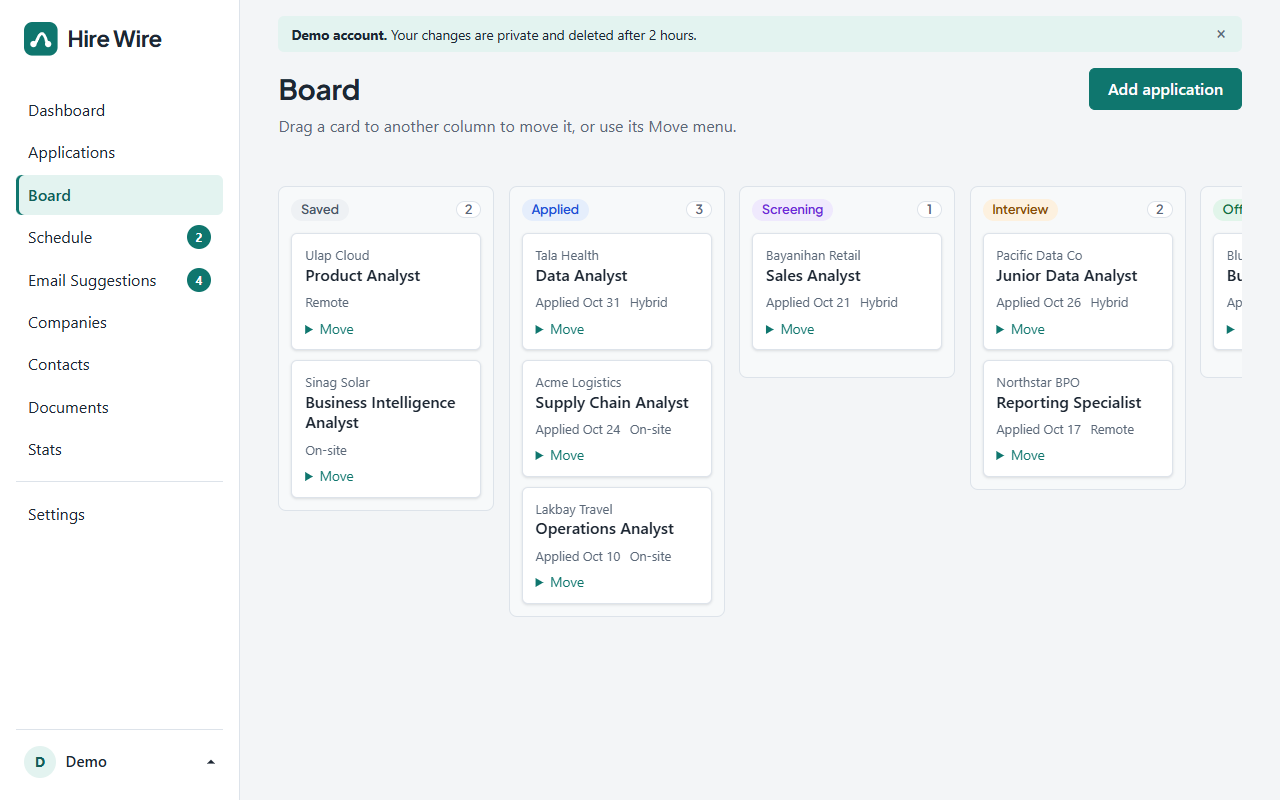
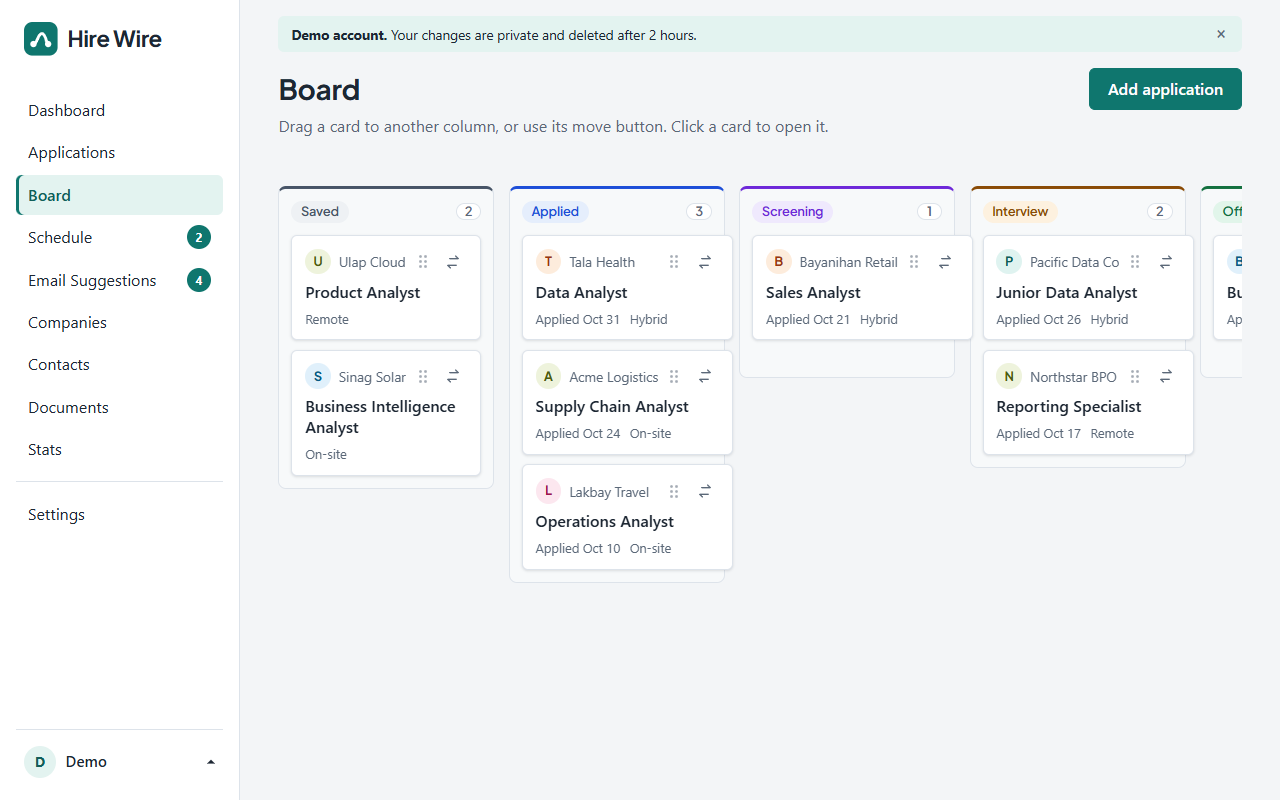
Board polish: stage colour lines, company letters, compact move button
From a design review the user pasted:
- Each column's top edge wears its stage colour (the pill's ink).
- Each card starts with a coloured letter for its company (6 colours,
  the same one every time, 6.3:1 or more in both themes).
- The "Move" text on every card is replaced by a six-dot drag handle
  and a small move button. Its menu stays, because it is how keyboard,
  phone and no-JavaScript users move a card.
- A click anywhere on a card opens the application (no modal: the
  application page already has the stage buttons).
- Every scrolling area (and the page) gets the same thin scrollbar in
  the theme's greys. The columns don't scroll on their own; only the
  board does, sideways.
- All README pictures retaken.

diff --git a/hirewire/static/style.css b/hirewire/static/style.css
@@ -385,6 +385,9 @@ img { max-width: 100%; height: auto; display: block; }
 
 .table-card { padding: 0; overflow: hidden; }
 .table-scroll { overflow-x: auto; }
+/* Thin scrollbars in the theme's own greys, in every area that scrolls (and the page). */
+html { scrollbar-color: var(--rule-strong) var(--bg); }
+.table-scroll, .board, .sidebar, .description-text { scrollbar-width: thin; scrollbar-color: var(--rule-strong) transparent; }
 .table { width: 100%; border-collapse: collapse; font-size: .95rem; }
 .table th { text-align: left; font-size: .8rem; font-weight: 600; color: var(--ink-soft); padding: .7rem 1rem; background: var(--surface-soft); border-bottom: 1px solid var(--rule); white-space: nowrap; }
 .table td { padding: .75rem 1rem; border-bottom: 1px solid var(--rule); vertical-align: middle; }
@@ -469,24 +472,46 @@ img { max-width: 100%; height: auto; display: block; }
 /* ---------- The Board ---------- */
 
 .board-status { min-height: 1.5rem; margin: -.75rem 0 .75rem; color: var(--ink-soft); font-size: .92rem; }
-.board { display: grid; grid-auto-flow: column; grid-auto-columns: minmax(13.5rem, 1fr); gap: .9rem; overflow-x: auto; padding-bottom: 1rem; scrollbar-width: thin; scrollbar-color: var(--rule-strong) transparent; scroll-snap-type: x mandatory; align-items: start; }
+.board { display: grid; grid-auto-flow: column; grid-auto-columns: minmax(13.5rem, 1fr); gap: .9rem; overflow-x: auto; padding-bottom: 1rem; scroll-snap-type: x mandatory; align-items: start; }
 .board-column { scroll-snap-align: start; display: flex; flex-direction: column; gap: .6rem; min-height: 12rem; padding: .75rem; background: var(--surface-soft); border: 1px solid var(--rule); border-radius: var(--radius); }
+/* Each column's top edge wears its stage colour, the same as its pill. */
+.board-column[data-drop="saved"] { border-top: 3px solid var(--stage-saved-ink); }
+.board-column[data-drop="applied"] { border-top: 3px solid var(--stage-applied-ink); }
+.board-column[data-drop="screening"] { border-top: 3px solid var(--stage-screening-ink); }
+.board-column[data-drop="interview"] { border-top: 3px solid var(--stage-interview-ink); }
+.board-column[data-drop="offer"] { border-top: 3px solid var(--stage-offer-ink); }
+.board-closed { border-top: 3px solid var(--rule-strong); }
 .board-head { display: flex; justify-content: space-between; align-items: center; margin: 0 0 .15rem; font-size: .95rem; }
 .board-count { min-width: 1.6rem; padding: 0 .4rem; border-radius: 999px; background: var(--surface); border: 1px solid var(--rule); color: var(--ink-soft); font-size: .8rem; font-weight: 600; text-align: center; }
 .board-cards { list-style: none; margin: 0; padding: 0; display: grid; gap: .6rem; }
 .board-cards:has(.board-card) + .board-empty { display: none; }
 .board-empty { margin: 0; padding: 1rem .5rem; border: 1px dashed var(--rule-strong); border-radius: var(--radius-small); color: var(--ink-soft); font-size: .88rem; text-align: center; }
-.board-card { position: relative; padding: .7rem .8rem; background: var(--surface); border: 1px solid var(--rule); border-radius: var(--radius-small); box-shadow: var(--shadow); cursor: grab; }
+.board-card { position: relative; padding: .7rem .8rem; background: var(--surface); border: 1px solid var(--rule); border-radius: var(--radius-small); box-shadow: var(--shadow); cursor: pointer; }
 .board-card:hover { border-color: var(--rule-strong); }
 .board-card.is-dragged { opacity: .45; }
-.board-card-company { margin: 0; font-size: .82rem; color: var(--ink-soft); }
+.board-card-company { margin: 0; font-size: .85rem; color: var(--ink-soft); }
 .board-card-title { display: block; color: var(--ink); font-weight: 600; line-height: 1.3; text-decoration: none; }
 .board-card-title:hover { color: var(--accent); text-decoration: underline; }
 .board-card-meta { display: flex; flex-wrap: wrap; align-items: center; gap: .2rem .6rem; margin: .4rem 0 0; color: var(--ink-soft); font-size: .8rem; }
 .board-card-stage:empty { display: none; }
-.card-move { margin-top: .4rem; font-size: .85rem; }
-.card-move summary { cursor: pointer; color: var(--accent); width: max-content; }
-.card-move form { display: flex; gap: .4rem; margin: .5rem 0 0; }
+/* The top line: the company's letter, its name, then the drag handle and the move button. */
+.board-card-top { display: flex; align-items: center; gap: .5rem; margin-bottom: .35rem; }
+.board-card-top .board-card-company { flex: 1; min-width: 0; overflow: hidden; text-overflow: ellipsis; white-space: nowrap; }
+.company-badge { flex: none; display: inline-flex; align-items: center; justify-content: center; width: 1.6rem; height: 1.6rem; border-radius: 50%; font-family: var(--headline); font-size: .8rem; font-weight: 700; }
+.company-badge-0 { background: light-dark(#dff3f0, #12302d); color: light-dark(#0f5e57, #7fdccf); }
+.company-badge-1 { background: light-dark(#e6e8fb, #23264a); color: light-dark(#3730a3, #a5adf5); }
+.company-badge-2 { background: light-dark(#fce7ef, #3b1d2a); color: light-dark(#9d174d, #f5a3c2); }
+.company-badge-3 { background: light-dark(#fdecdc, #3a2416); color: light-dark(#9a3412, #f8b98a); }
+.company-badge-4 { background: light-dark(#e0f0fb, #14293a); color: light-dark(#075985, #8fcdf3); }
+.company-badge-5 { background: light-dark(#eef3dc, #2a2f17); color: light-dark(#4d5c12, #c7d68a); }
+.drag-handle { flex: none; display: inline-flex; padding: .2rem; color: var(--ink-soft); cursor: grab; opacity: .55; }
+.board-card:hover .drag-handle { opacity: 1; }
+.card-move { position: relative; flex: none; font-size: .85rem; }
+.card-move summary { display: inline-flex; align-items: center; justify-content: center; width: 1.8rem; height: 1.8rem; border-radius: var(--radius-small); color: var(--ink-soft); list-style: none; cursor: pointer; }
+.card-move summary::-webkit-details-marker { display: none; }
+.card-move summary:hover, .card-move[open] summary { background: var(--accent-soft); color: var(--accent-strong); }
+.card-move-menu { position: absolute; right: 0; top: calc(100% + .3rem); z-index: 5; width: 14rem; padding: .6rem; background: var(--surface); border: 1px solid var(--rule); border-radius: var(--radius-small); box-shadow: 0 .25rem 1rem rgb(0 0 0 / .15); }
+.card-move form { display: flex; gap: .4rem; margin: 0; }
 .card-move .control { min-height: 2rem; padding: .2rem .4rem; font-size: .85rem; }
 .board-more { font-size: .88rem; text-align: center; }
 .drop-zones { display: none; gap: .4rem; }

diff --git a/hirewire/templates/board.html b/hirewire/templates/board.html
@@ -3,19 +3,23 @@
 {% block title %}Board - {{ APP_NAME }}{% endblock %}
 
 {% macro card(job) %}
+  {% set address = url_for('applications.detail', job_id=job.id) %}
   <li class="board-card" draggable="true" data-job-id="{{ job.id }}" data-moves="{{ moves[job.id]|join(' ') }}"
-      data-move-url="{{ url_for('applications.move', job_id=job.id) }}">
-    <p class="board-card-company">{{ job.company.name }}</p>
-    <a class="board-card-title" href="{{ url_for('applications.detail', job_id=job.id) }}" draggable="false">{{ job.role_title }}</a>
-    <p class="board-card-meta">
-      <span class="board-card-stage">{% if job.is_closed %}{{ stage_pill(job.stage) }}{% endif %}</span>
-      {% if job.applied_on %}<span>Applied {{ job.applied_on|short_day }}</span>{% endif %}
-      {% if job.work_mode %}<span>{{ WORK_MODES[job.work_mode] }}</span>{% endif %}
-    </p>
-    {# Works without dragging: by keyboard, on phones, and with JavaScript off. #}
-    <details class="card-move">
-      <summary>Move</summary>
-      <form method="post" action="{{ url_for('applications.move', job_id=job.id) }}">
+      data-move-url="{{ url_for('applications.move', job_id=job.id) }}" data-href="{{ address }}">
+    <div class="board-card-top">
+      {# A coloured letter per company, the same colour every time (from its id). #}
+      <span class="company-badge company-badge-{{ job.company_id % 6 }}" aria-hidden="true">{{ job.company.name[:1]|upper }}</span>
+      <p class="board-card-company">{{ job.company.name }}</p>
+      <span class="drag-handle" aria-hidden="true" title="Drag to move">
+        <svg viewBox="0 0 12 18" width="10" height="15" fill="currentColor"><circle cx="3" cy="3" r="1.6"></circle><circle cx="9" cy="3" r="1.6"></circle><circle cx="3" cy="9" r="1.6"></circle><circle cx="9" cy="9" r="1.6"></circle><circle cx="3" cy="15" r="1.6"></circle><circle cx="9" cy="15" r="1.6"></circle></svg>
+      </span>
+      {# Moving without dragging: by keyboard, on phones, and with JavaScript off. #}
+      <details class="card-move">
+        <summary aria-label="Move {{ job.role_title }} to another stage" title="Move to another stage">
+          <svg viewBox="0 0 24 24" width="16" height="16" fill="none" stroke="currentColor" stroke-width="2" stroke-linecap="round" stroke-linejoin="round" aria-hidden="true"><path d="M7 7h13l-4-4M17 17H4l4 4"></path></svg>
+        </summary>
+        <div class="card-move-menu">
+          <form method="post" action="{{ url_for('applications.move', job_id=job.id) }}">
         {{ csrf() }}
         <input type="hidden" name="from" value="board">
         <input type="hidden" name="next" value="{{ url_for('board.index') }}">
@@ -24,8 +28,16 @@
           {% for stage in moves[job.id] %}<option value="{{ stage }}">{{ labels[stage] }}</option>{% endfor %}
         </select>
         <button class="button button-small" type="submit">Move</button>
-      </form>
-    </details>
+          </form>
+        </div>
+      </details>
+    </div>
+    <a class="board-card-title" href="{{ address }}" draggable="false">{{ job.role_title }}</a>
+    <p class="board-card-meta">
+      <span class="board-card-stage">{% if job.is_closed %}{{ stage_pill(job.stage) }}{% endif %}</span>
+      {% if job.applied_on %}<span>Applied {{ job.applied_on|short_day }}</span>{% endif %}
+      {% if job.work_mode %}<span>{{ WORK_MODES[job.work_mode] }}</span>{% endif %}
+    </p>
   </li>
 {% endmacro %}
 
@@ -33,7 +45,7 @@
   <div class="page-head">
     <h1>Board</h1>
     <div class="actions"><a class="button" href="{{ url_for('applications.new') }}">Add application</a></div>
-    <p class="page-sub">Drag a card to another column to move it, or use its Move menu.</p>
+    <p class="page-sub">Drag a card to another column, or use its move button. Click a card to open it.</p>
   </div>
   <p class="board-status" data-board-status role="status" aria-live="polite"></p>
   <div class="board" data-board data-csrf="{{ csrf_token() }}" data-labels="{{ labels|tojson|forceescape }}"

diff --git a/hirewire/static/app.js b/hirewire/static/app.js
@@ -97,11 +97,12 @@ function setUpFilters() {
   });
 }
 
-// A click anywhere on a row opens its page (the title is the real link, for keyboards).
+// A click anywhere on a table row or a Board card opens its page (the title is the
+// real link, for keyboards). A drag on the Board never fires a click.
 function setUpRowLinks() {
-  document.querySelectorAll("tr[data-href]").forEach((row) => {
+  document.querySelectorAll("tr[data-href], .board-card[data-href]").forEach((row) => {
     row.addEventListener("click", (event) => {
-      if (event.target.closest("a, button, input, select, label")) return;
+      if (event.target.closest("a, button, input, select, label, details")) return;
       if (String(getSelection())) return;  // selecting text to copy isn't a click to open
       location.href = row.dataset.href;
     });

diff --git a/AGENTS.md b/AGENTS.md
@@ -40,6 +40,7 @@ Python 3.13 is at `%LOCALAPPDATA%\Programs\Python\Python313\python.exe`. Use the
 - Solid buttons hover to `--accent-hover` (clearly darker in light mode, lighter in dark) with a soft `--accent-ring`; the menu's current page also has a teal edge, so it isn't shown by colour alone. The demo's note is one thin line that `setUpDemoNote()` in `app.js` lets people close for the browser session.
 - Outlined (quiet) buttons use `--control-border`, at least 3:1 against the card, so they never look switched off. Links to other sites use `outside_link()` in `_macros.html` (new tab, `noopener`, a small arrow and "opens in a new tab" for screen readers).
 - The Applications table: job title and company share the first column (`.col-job`), which is `position: sticky` so it stays put when a narrow screen scrolls sideways. A sticky cell traps the old whole-row `::after` link, so rows have `data-href` and `setUpRowLinks()` opens them on a click (the title stays the real link). The filter panel is a closed `<details>` whose summary sits inside the search box; `setUpFilterPanel()` remembers it open while boxes are ticked, and empty fields are left out of the address.
+- Board cards: a coloured company letter (`.company-badge-N`, N = company id % 6, colours via `light-dark()` and checked at 6.3:1 or more), a drag handle, and a small move button whose `<details>` menu is the keyboard / phone / no-JavaScript way to move a card (keep it). A click on a card opens the application (`setUpRowLinks()`). Column tops use the stage's ink colour. All scrolling areas share thin themed scrollbars.
 - Stage pills always show the stage's name (never colour alone). Dark mode is defined twice in `style.css` (device setting + Settings choice): change both blocks together.
 - **Every PR must keep the README's pictures up to date (the owner's standing rule).** Screenshots live in `docs/screenshots/` and every one is shown in the README. If a PR visibly changes a page, retake its pictures; if it adds a page or feature, add a picture to `docs/take_screenshots.py` and the README. `tests/test_readme.py` fails if they disagree. In a PR description, link pictures with a full `raw.githubusercontent.com` address.
 - Commit messages and PR bodies go through files (`git commit -F`, `gh pr create --body-file`): PowerShell 5.1 breaks quotes in arguments.
